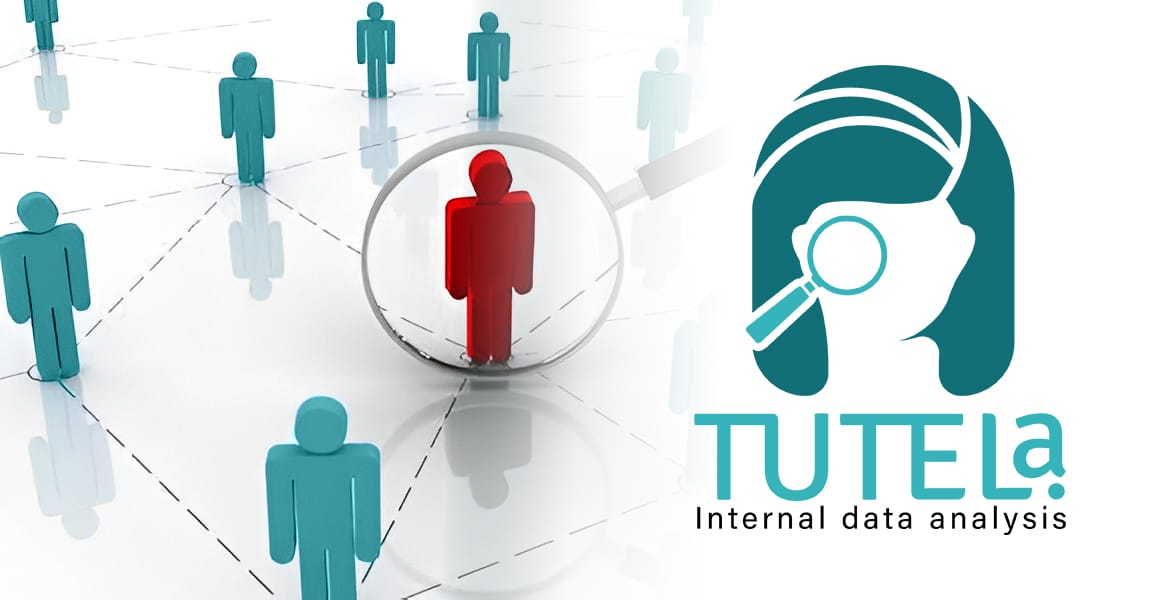
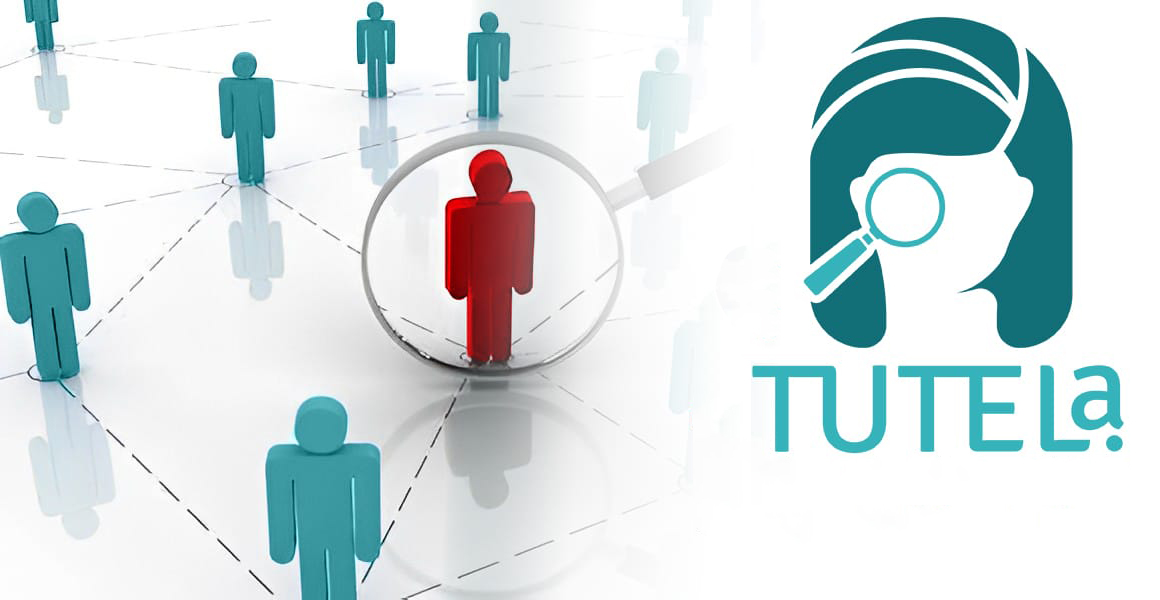
cambio portada

Changed region(s): [[0.5897, 0.03, 0.9931, 0.9]]

diff --git a/footer.html b/footer.html
@@ -1,13 +1,12 @@
 <!-- Footer Start -->
-<div class="container-fluid bg-secondary text-white pt-5 px-sm-3 px-md-5" style="margin-top: 90px">
-    <div class="row pt-5">
-        <div class="col-lg-3 col-md-6 mb-5">
+<div class="container-fluid bg-secondary text-white pt-4 px-sm-3 px-md-5" style="margin-top: 90px">
+    <div class="row pt-2">
+        <div class="col-lg-3 col-md-6 mb-2">
             <a href="index.html" class="navbar-brand">
-                <h1 class="m-0 mt-n2 display-4 text-primary text-uppercase">TUTELA</h1>
+                <img src="img\logoletas.png" class="m-0 mt-n2 display-4" style="max-width: 200px; height: auto;">
             </a>
             <p>
-                Volup amet magna clita tempor. Tempor sea eos vero ipsum. Lorem lorem sit sed elitr sed
-                kasd et
+                es posible colocar un texto aqui
             </p>
             <div class="d-flex justify-content-start mt-4">
                 <a class="btn btn-lg btn-outline-light btn-lg-square mr-2" href="#"><i class="fab fa-twitter"></i></a>
@@ -18,8 +17,8 @@
                 <a class="btn btn-lg btn-outline-light btn-lg-square" href="#"><i class="fab fa-instagram"></i></a>
             </div>
         </div>
-        <div class="row mt-4 align-items-center">
-            <div class="col-lg-4">
+        <div class="row mt-3 align-items-center">
+            <!-- <div class="col-lg-4">
                 <div class="d-flex justify-content-lg-center p-4" style="background: rgba(256, 256, 256, 0.05)">
                     <i class="fa fa-2x fa-map-marker-alt text-primary"></i>
                     <div class="ml-3">
@@ -27,8 +26,9 @@
                         <p class="m-0">123 Street, New York, USA</p>
                     </div>
                 </div>
-            </div>
-            <div class="col-lg-5">
+            </div>-->
+            </p>
+            <div class="col-lg-7">
                 <div class="d-flex justify-content-lg-center p-4" style="background: rgba(256, 256, 256, 0.05)">
                     <i class="fa fa-2x fa-envelope-open text-primary"></i>
                     <div class="ml-3">
@@ -37,7 +37,7 @@
                     </div>
                 </div>
             </div>
-            <div class="col-lg-3">
+            <div class="col-lg-5">
                 <div class="d-flex justify-content-lg-center p-4" style="background: rgba(256, 256, 256, 0.05)">
                     <i class="fa fa-2x fa-phone-alt text-primary"></i>
                     <div class="ml-3">
